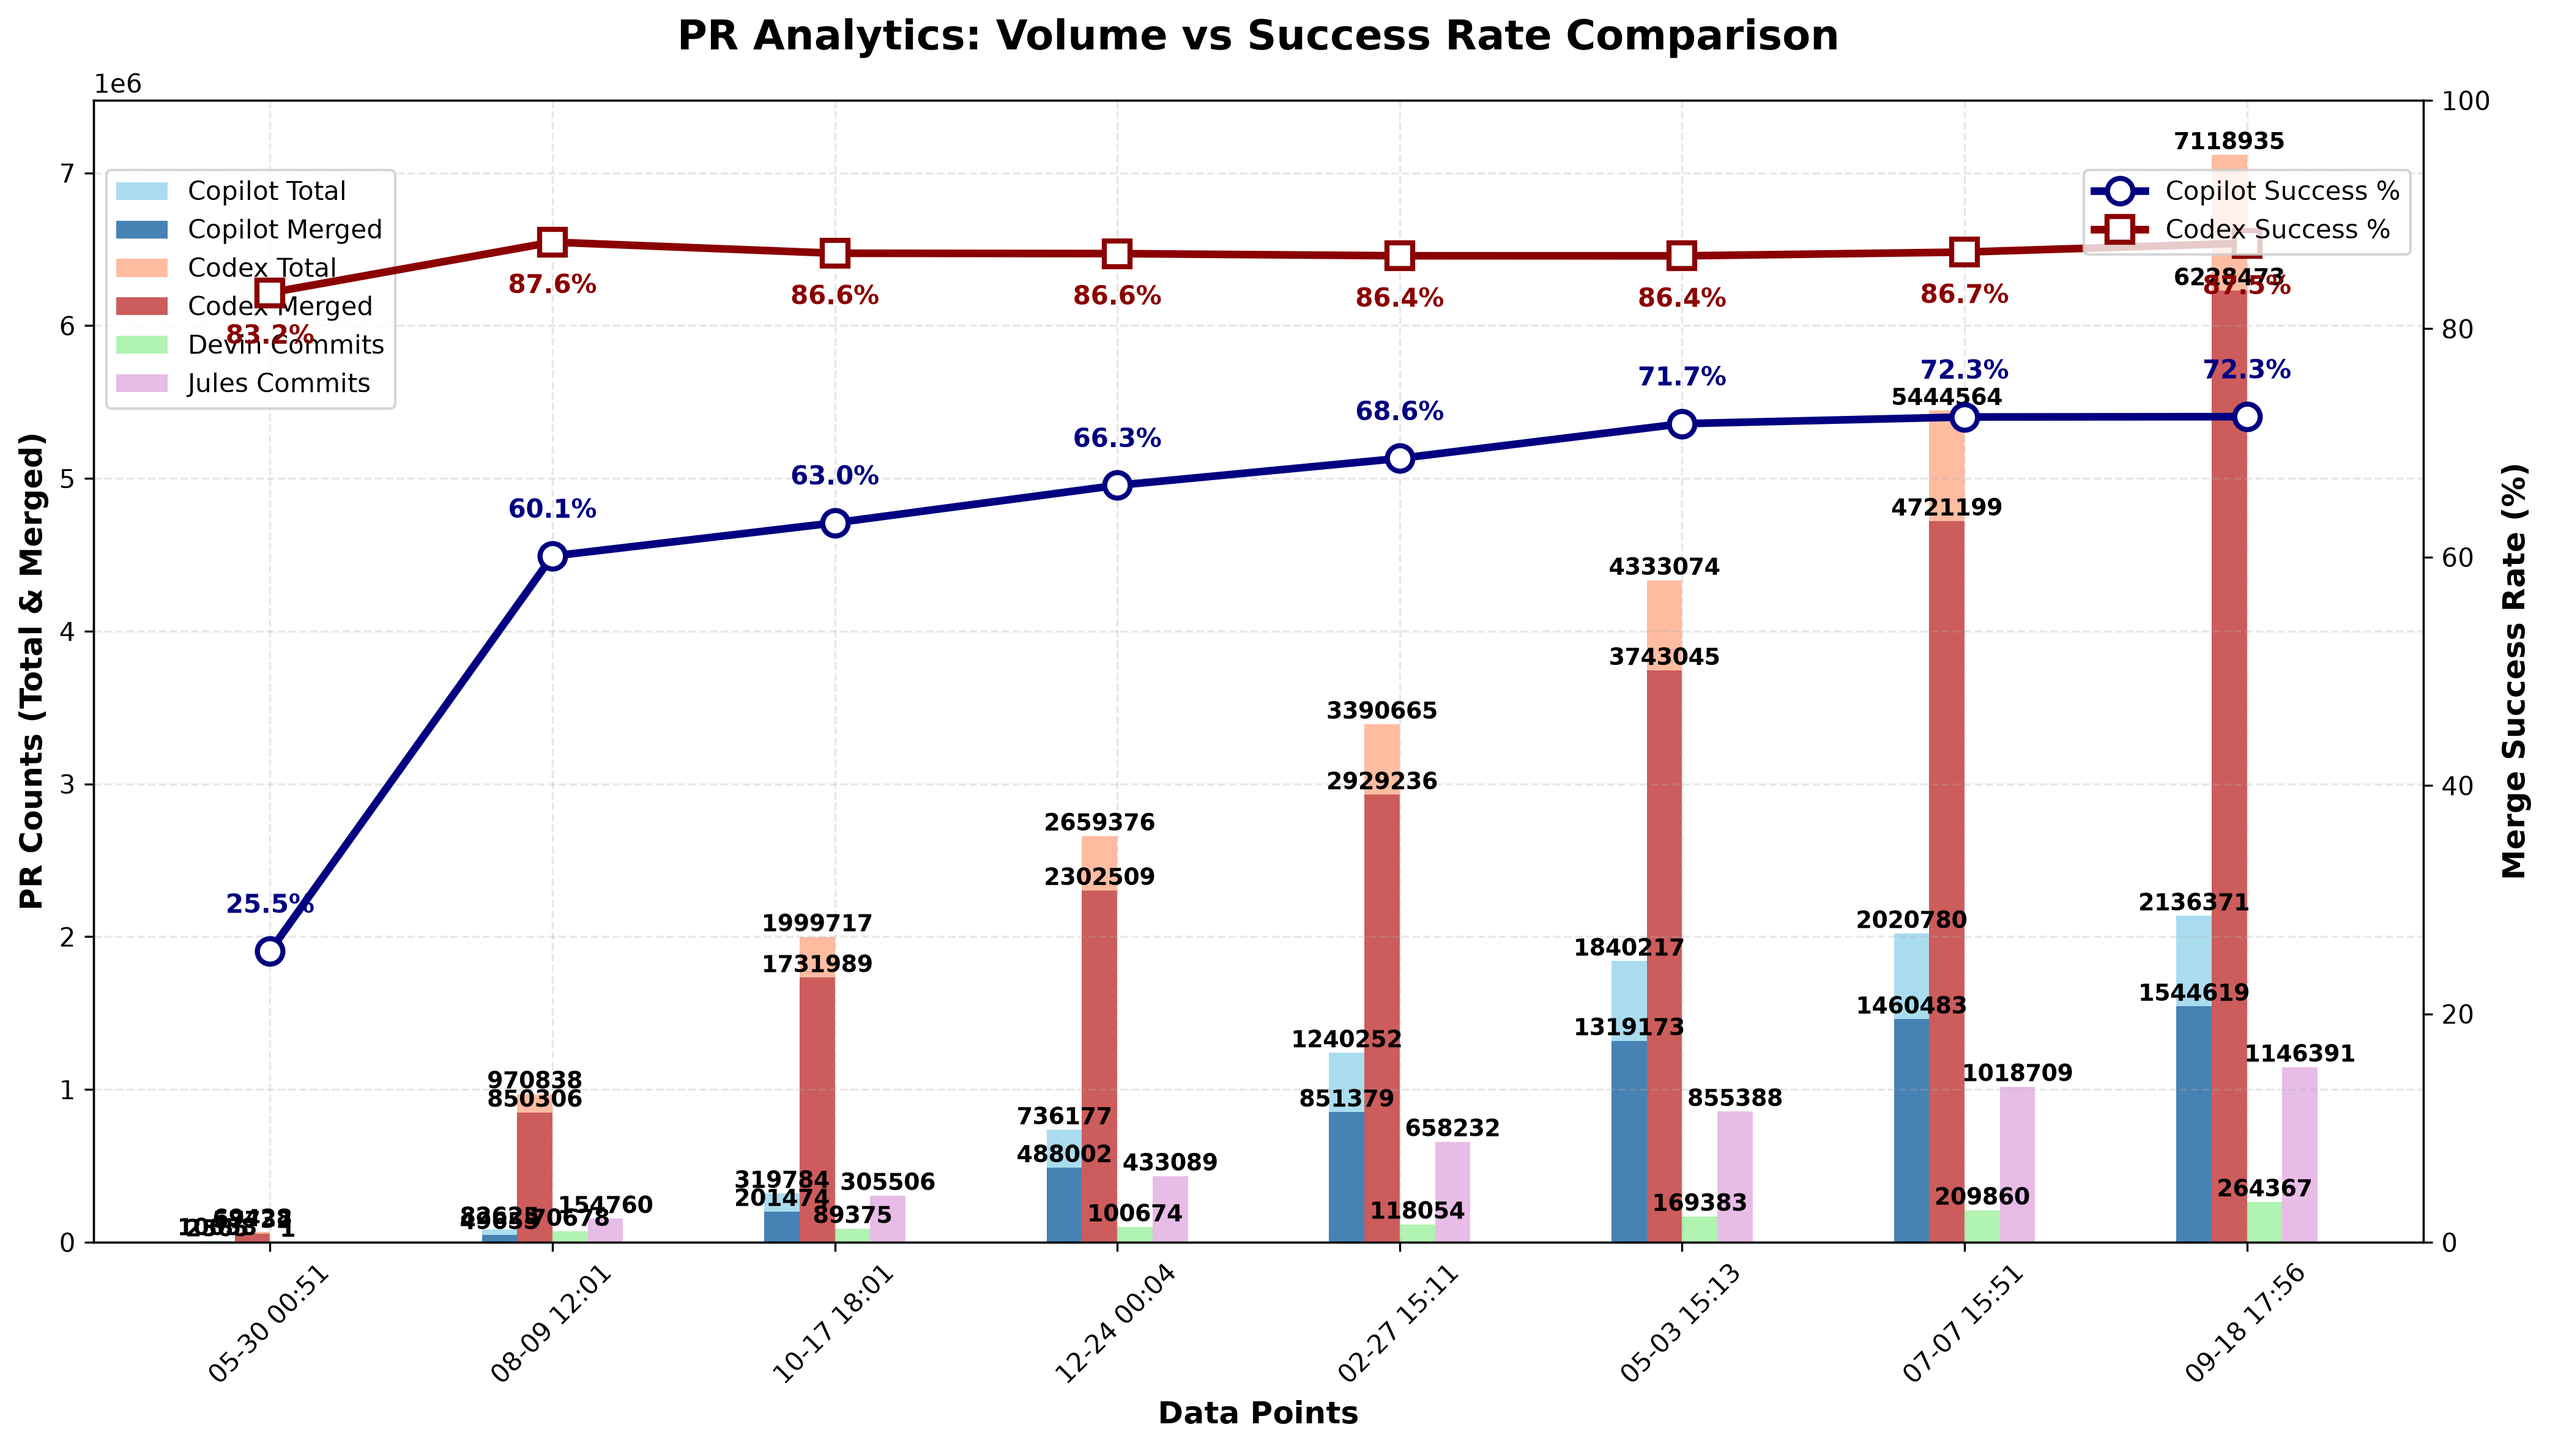
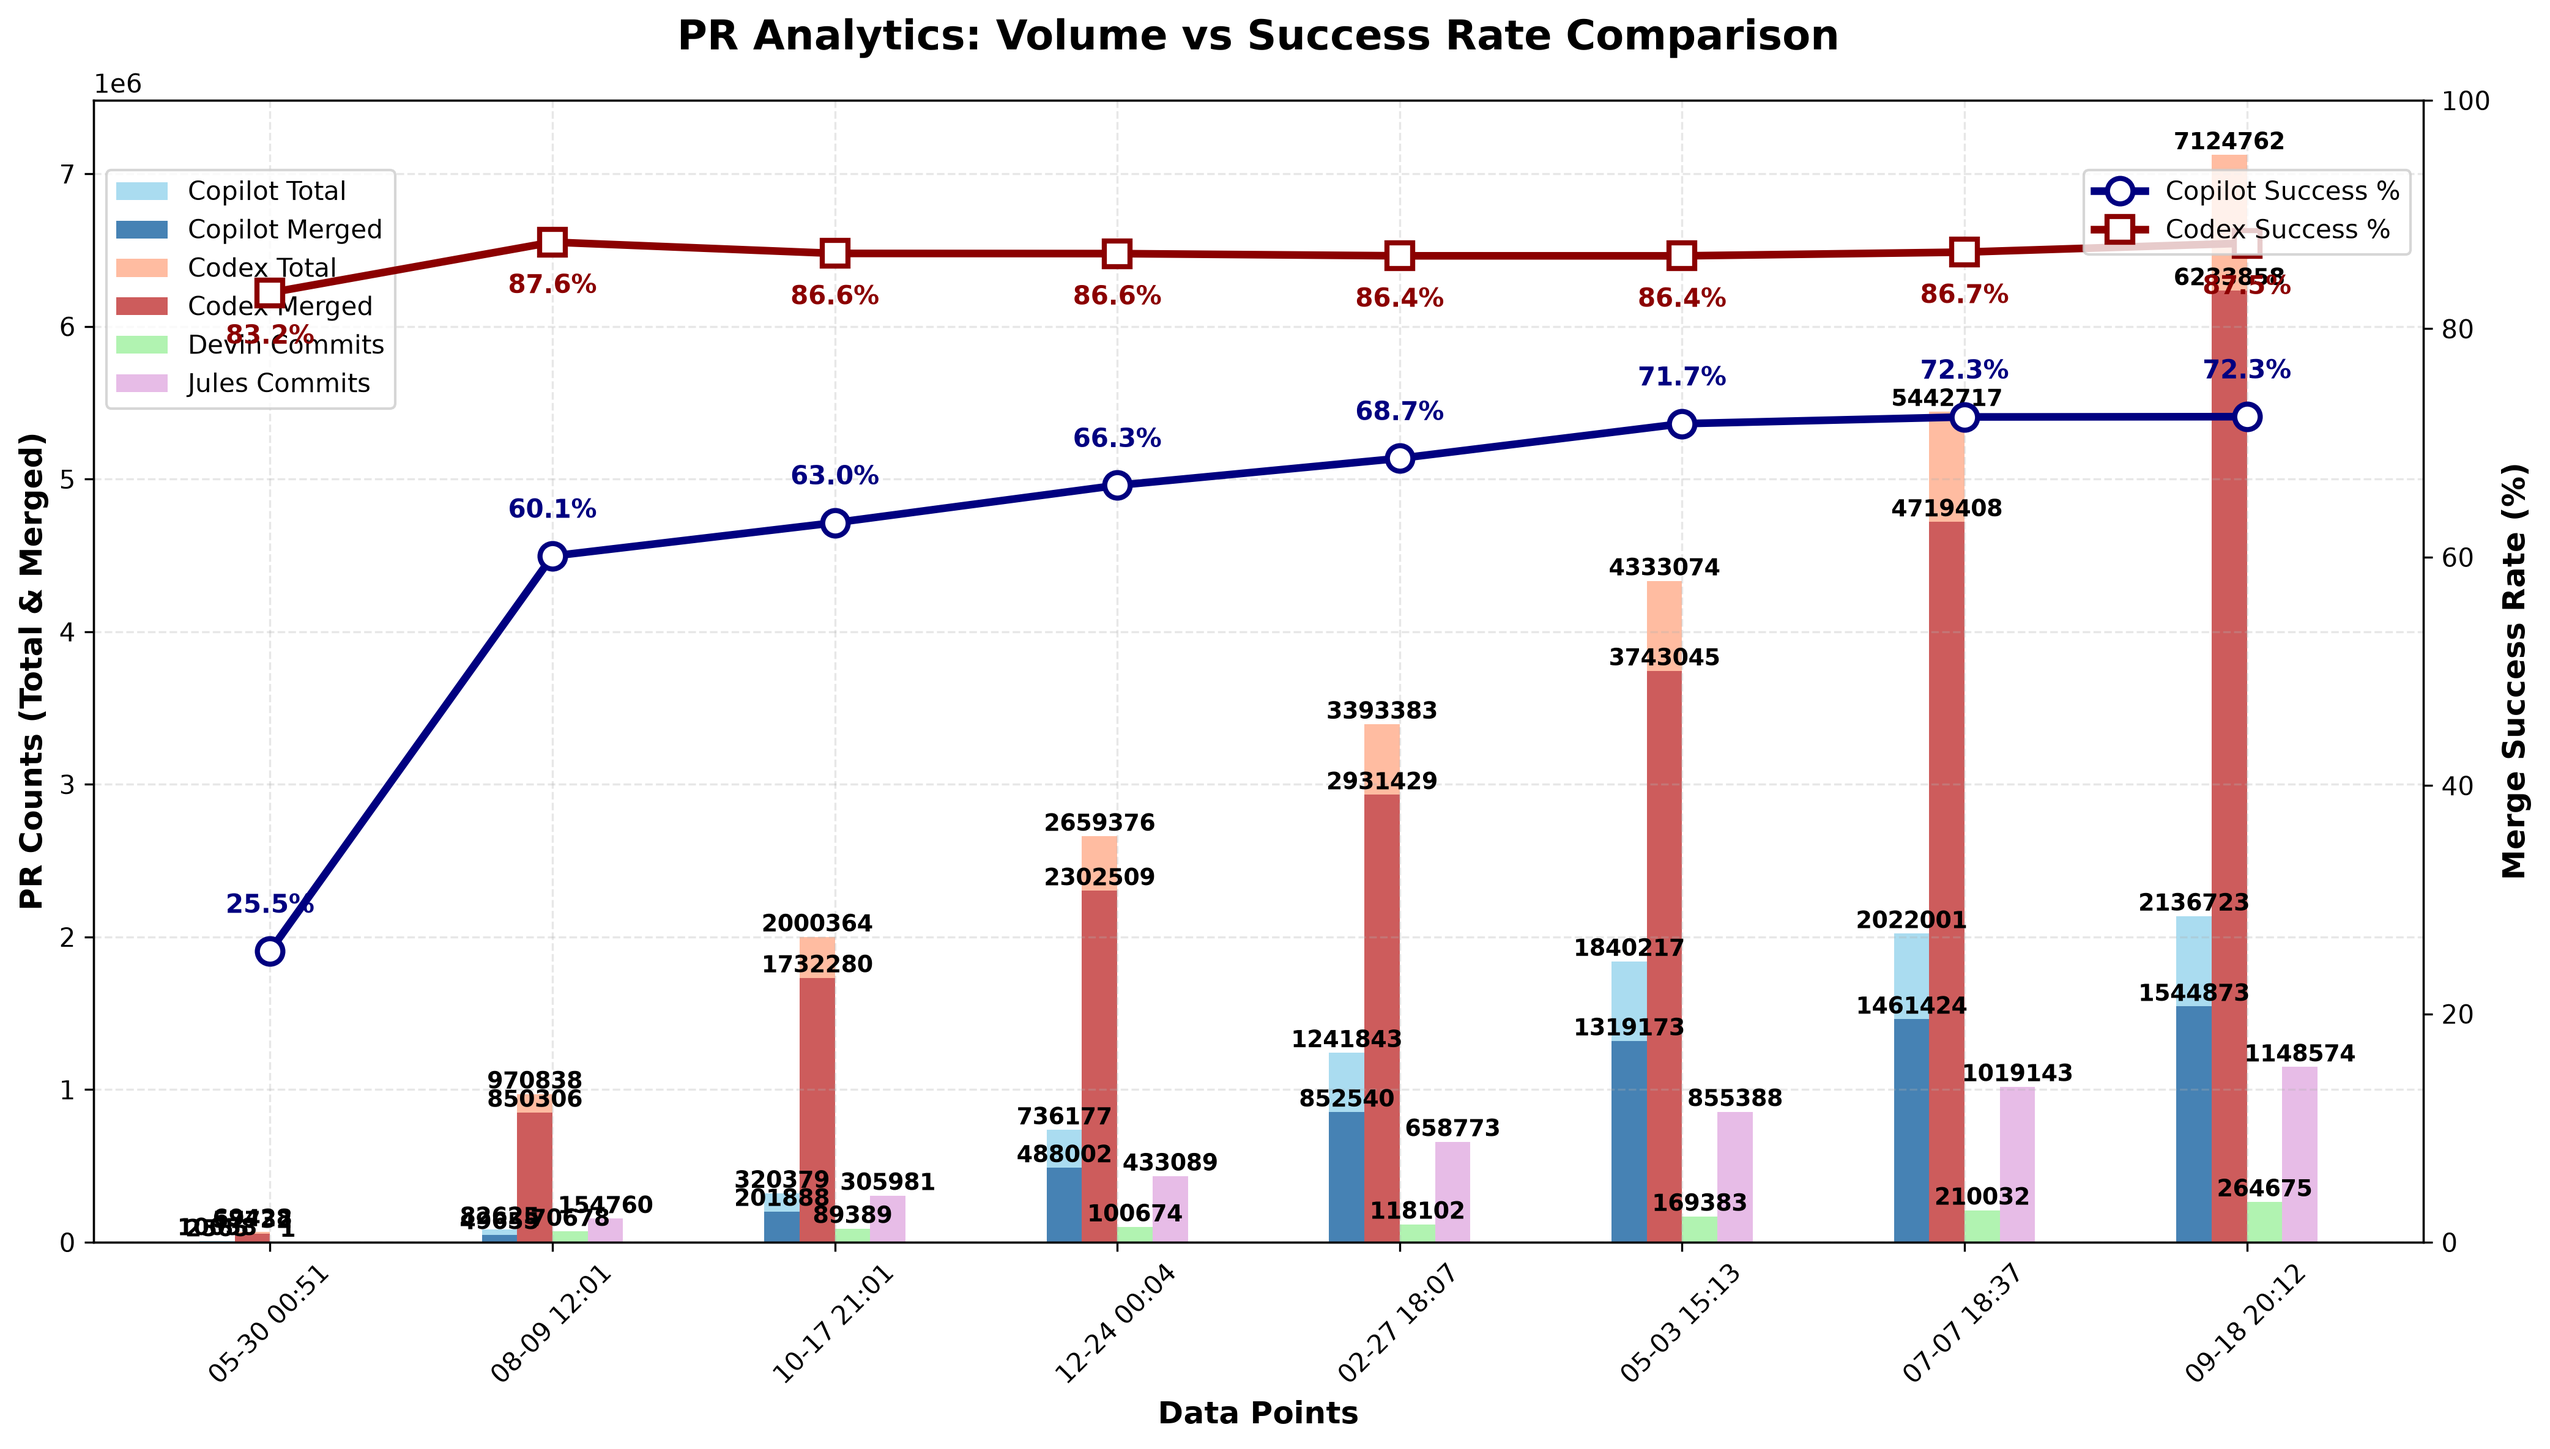
chore: update PR‑approval chart

diff --git a/docs/index.html b/docs/index.html
@@ -3670,6 +3670,7 @@
                         <td>N/A</td>
                         <td>N/A</td>
                         <td>N/A</td>
+                        <td>N/A</td>
                     </tr>
                     <tr>
                         <td>Codex</td>
@@ -7298,27 +7299,28 @@
                         <td>N/A</td>
                         <td>N/A</td>
                         <td>N/A</td>
+                        <td>N/A</td>
                     </tr>
                 <tr>
                         <td>Devin</td>
                         <td>N/A</td>
                         <td>N/A</td>
                         <td>N/A</td>
-                        <td>264,367</td>
+                        <td>264,675</td>
                     </tr>
                     <tr>
                         <td>Jules</td>
                         <td>N/A</td>
                         <td>N/A</td>
                         <td>N/A</td>
-                        <td>1,146,391</td>
+                        <td>1,148,574</td>
                     </tr>
                     </tbody>
             </table>
         </section>
 
         <footer>
-            <p>Last updated: <span id="last-updated">September 18, 2026 17:56 UTC</span></p>
+            <p>Last updated: <span id="last-updated">September 18, 2026 20:12 UTC</span></p>
             <p><a href="https://github.com/aavetis/ai-pr-watcher">View on GitHub</a></p>
         </footer>
     </div>

diff --git a/README.md b/README.md
@@ -19,7 +19,7 @@ Explore the GitHub search queries used:
 
 | Service | Total PRs | Merged PRs | Merge Rate | Total Commits |
 | ------- | --------- | ---------- | ---------- | ------------- |
-| Copilot | 2,136,371 | 1,544,619 | 72.30% | N/A           |
-| Codex   | 7,118,935 | 6,228,473 | 87.49% | N/A           |
-| Devin   | N/A       | N/A        | N/A        | 264,367 |
-| Jules   | N/A       | N/A        | N/A        | 1,146,391 |
+| Copilot | 2,136,723 | 1,544,873 | 72.30% | N/A           |
+| Codex   | 7,124,762 | 6,233,858 | 87.50% | N/A           |
+| Devin   | N/A       | N/A        | N/A        | 264,675 |
+| Jules   | N/A       | N/A        | N/A        | 1,148,574 |
